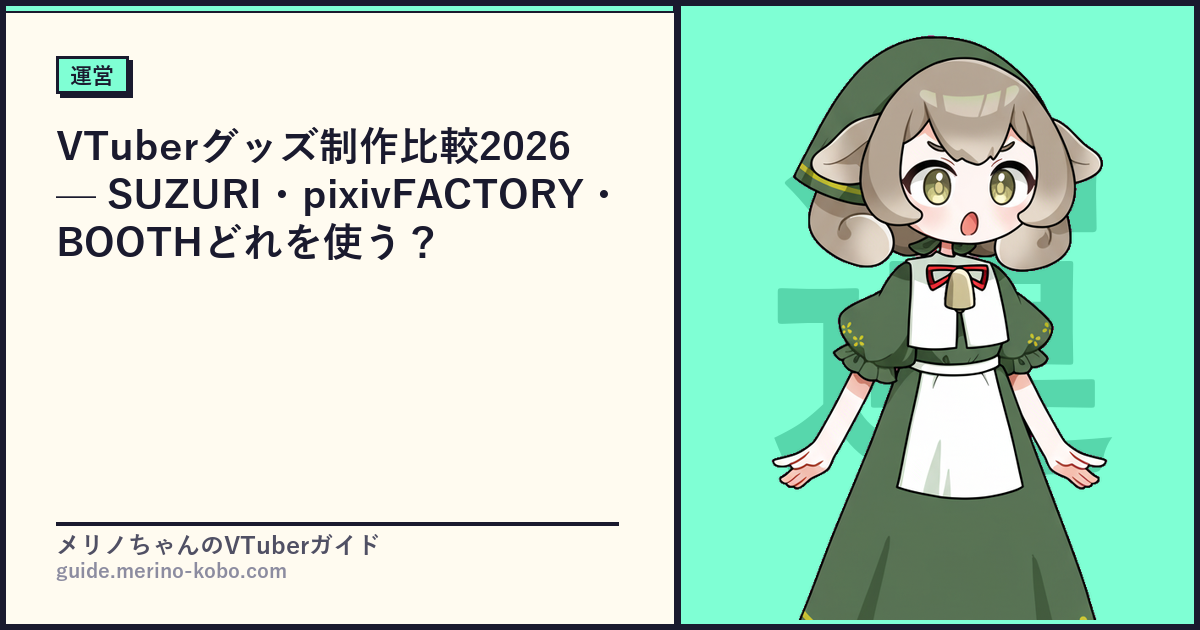
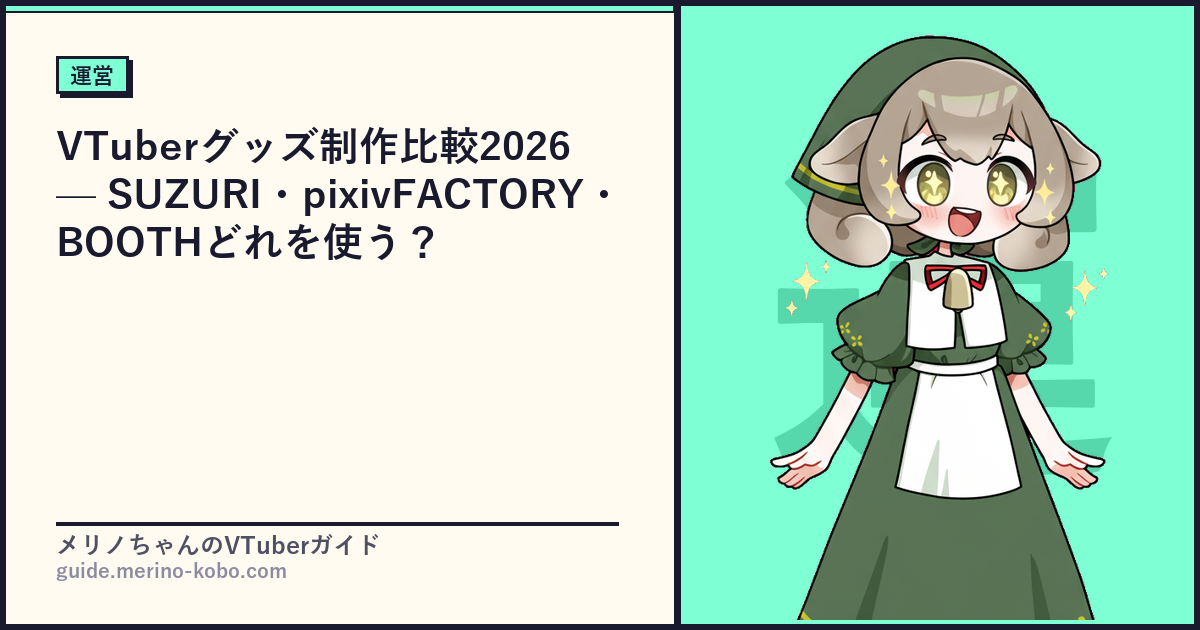
fix: OGP画像のポーズ重複を解消（ソート順インデックス割り当てに変更）

diff --git a/scripts/generate_ogp.py b/scripts/generate_ogp.py
@@ -3,6 +3,7 @@ OGP画像生成スクリプト v3
 完全2ゾーン分割レイアウト（テキスト左 / キャラ右）
 Neubrutalism: ハードボーダー・シャドウなしテキスト・ベタ色分割
 """
+import hashlib
 import os
 import re
 import sys
@@ -20,7 +21,27 @@ ARTICLES_DIR = ROOT / "content" / "articles"
 OUTPUT_DIR   = ROOT / "public" / "images" / "ogp"
 MERINO_DIR   = ROOT / "public" / "images" / "merino"
 
-# カテゴリ別メリノちゃん画像（constants.tsと同期）
+# 記事ごとの固有ポーズプール（スラグハッシュで振り分け）
+MERINO_POSE_POOL = [
+    "merino-explain",
+    "merino-happy",
+    "merino-thinking",
+    "merino-point",
+    "merino-recommend",
+    "merino-serious",
+    "merino-excited",
+    "merino-ok",
+    "merino-thumbsup",
+    "merino-wave",
+    "merino-smile",
+    "merino-peace",
+    "merino-determined",
+    "merino-cheer",
+    "merino-mic",
+    "merino-surprise",
+]
+
+# カテゴリ別フォールバック（frontmatter に merino 指定がない & ハッシュ不使用の場合）
 MERINO_BY_CATEGORY = {
     "model":           "merino-recommend",
     "getting-started": "merino-explain",
@@ -138,8 +159,16 @@ def px_wrap(draw: ImageDraw.ImageDraw, text: str, fnt,
 
 
 # ── メリノちゃん読み込み ──────────────────────────────────
-def load_merino(category: str = "getting-started") -> Image.Image | None:
-    name = MERINO_BY_CATEGORY.get(category, "merino-explain")
+def load_merino(category: str = "getting-started", slug: str = "", merino_override: str = "", pose_index: int = -1) -> Image.Image | None:
+    if merino_override:
+        name = merino_override
+    elif pose_index >= 0:
+        name = MERINO_POSE_POOL[pose_index % len(MERINO_POSE_POOL)]
+    elif slug:
+        idx  = int(hashlib.md5(slug.encode()).hexdigest(), 16) % len(MERINO_POSE_POOL)
+        name = MERINO_POSE_POOL[idx]
+    else:
+        name = MERINO_BY_CATEGORY.get(category, "merino-explain")
     path = MERINO_DIR / f"{name}.png"
     if not path.exists():
         path = MERINO_DIR / "merino-explain.png"
@@ -178,7 +207,7 @@ def draw_badge(draw: ImageDraw.ImageDraw, x: int, y: int,
 
 
 # ── メイン生成 ────────────────────────────────────────────
-def generate_ogp(title: str, category: str, slug: str) -> Path:
+def generate_ogp(title: str, category: str, slug: str, merino_override: str = "", pose_index: int = -1) -> Path:
     cat_col   = CAT_COLORS.get(category, (127, 255, 212))
     cat_label = CAT_LABELS.get(category, category)
 
@@ -205,7 +234,7 @@ def generate_ogp(title: str, category: str, slug: str) -> Path:
     # ─────────────────────────────────────────────────────
     # メリノちゃん：右ゾーン中央、ボトムアンカー
     # ─────────────────────────────────────────────────────
-    merino = load_merino(category)
+    merino = load_merino(category, slug, merino_override, pose_index)
     if merino:
         char_zone_w = W - SPLIT
         # 右ゾーン内で水平中央寄せ
@@ -307,13 +336,16 @@ def parse_frontmatter(mdx_path: Path) -> dict:
 def main():
     print("OGP v3 start...\n")
     generated = []
-    for mdx in sorted(ARTICLES_DIR.glob("*.mdx")):
+    mdx_list = sorted(ARTICLES_DIR.glob("*.mdx"))
+    for i, mdx in enumerate(mdx_list):
         fm       = parse_frontmatter(mdx)
         title    = fm.get("title", mdx.stem)
         category = fm.get("category", "model")
         slug     = mdx.stem
-        print(f"Generating: {slug}")
-        generated.append(generate_ogp(title, category, slug))
+        merino_override = fm.get("merino", "")
+        pose_index = i if not merino_override else -1
+        print(f"Generating: {slug}  ({MERINO_POSE_POOL[pose_index % len(MERINO_POSE_POOL)] if not merino_override else merino_override})")
+        generated.append(generate_ogp(title, category, slug, merino_override, pose_index))
     print(f"\nDone: {len(generated)} images -> {OUTPUT_DIR}")
     return generated
 
